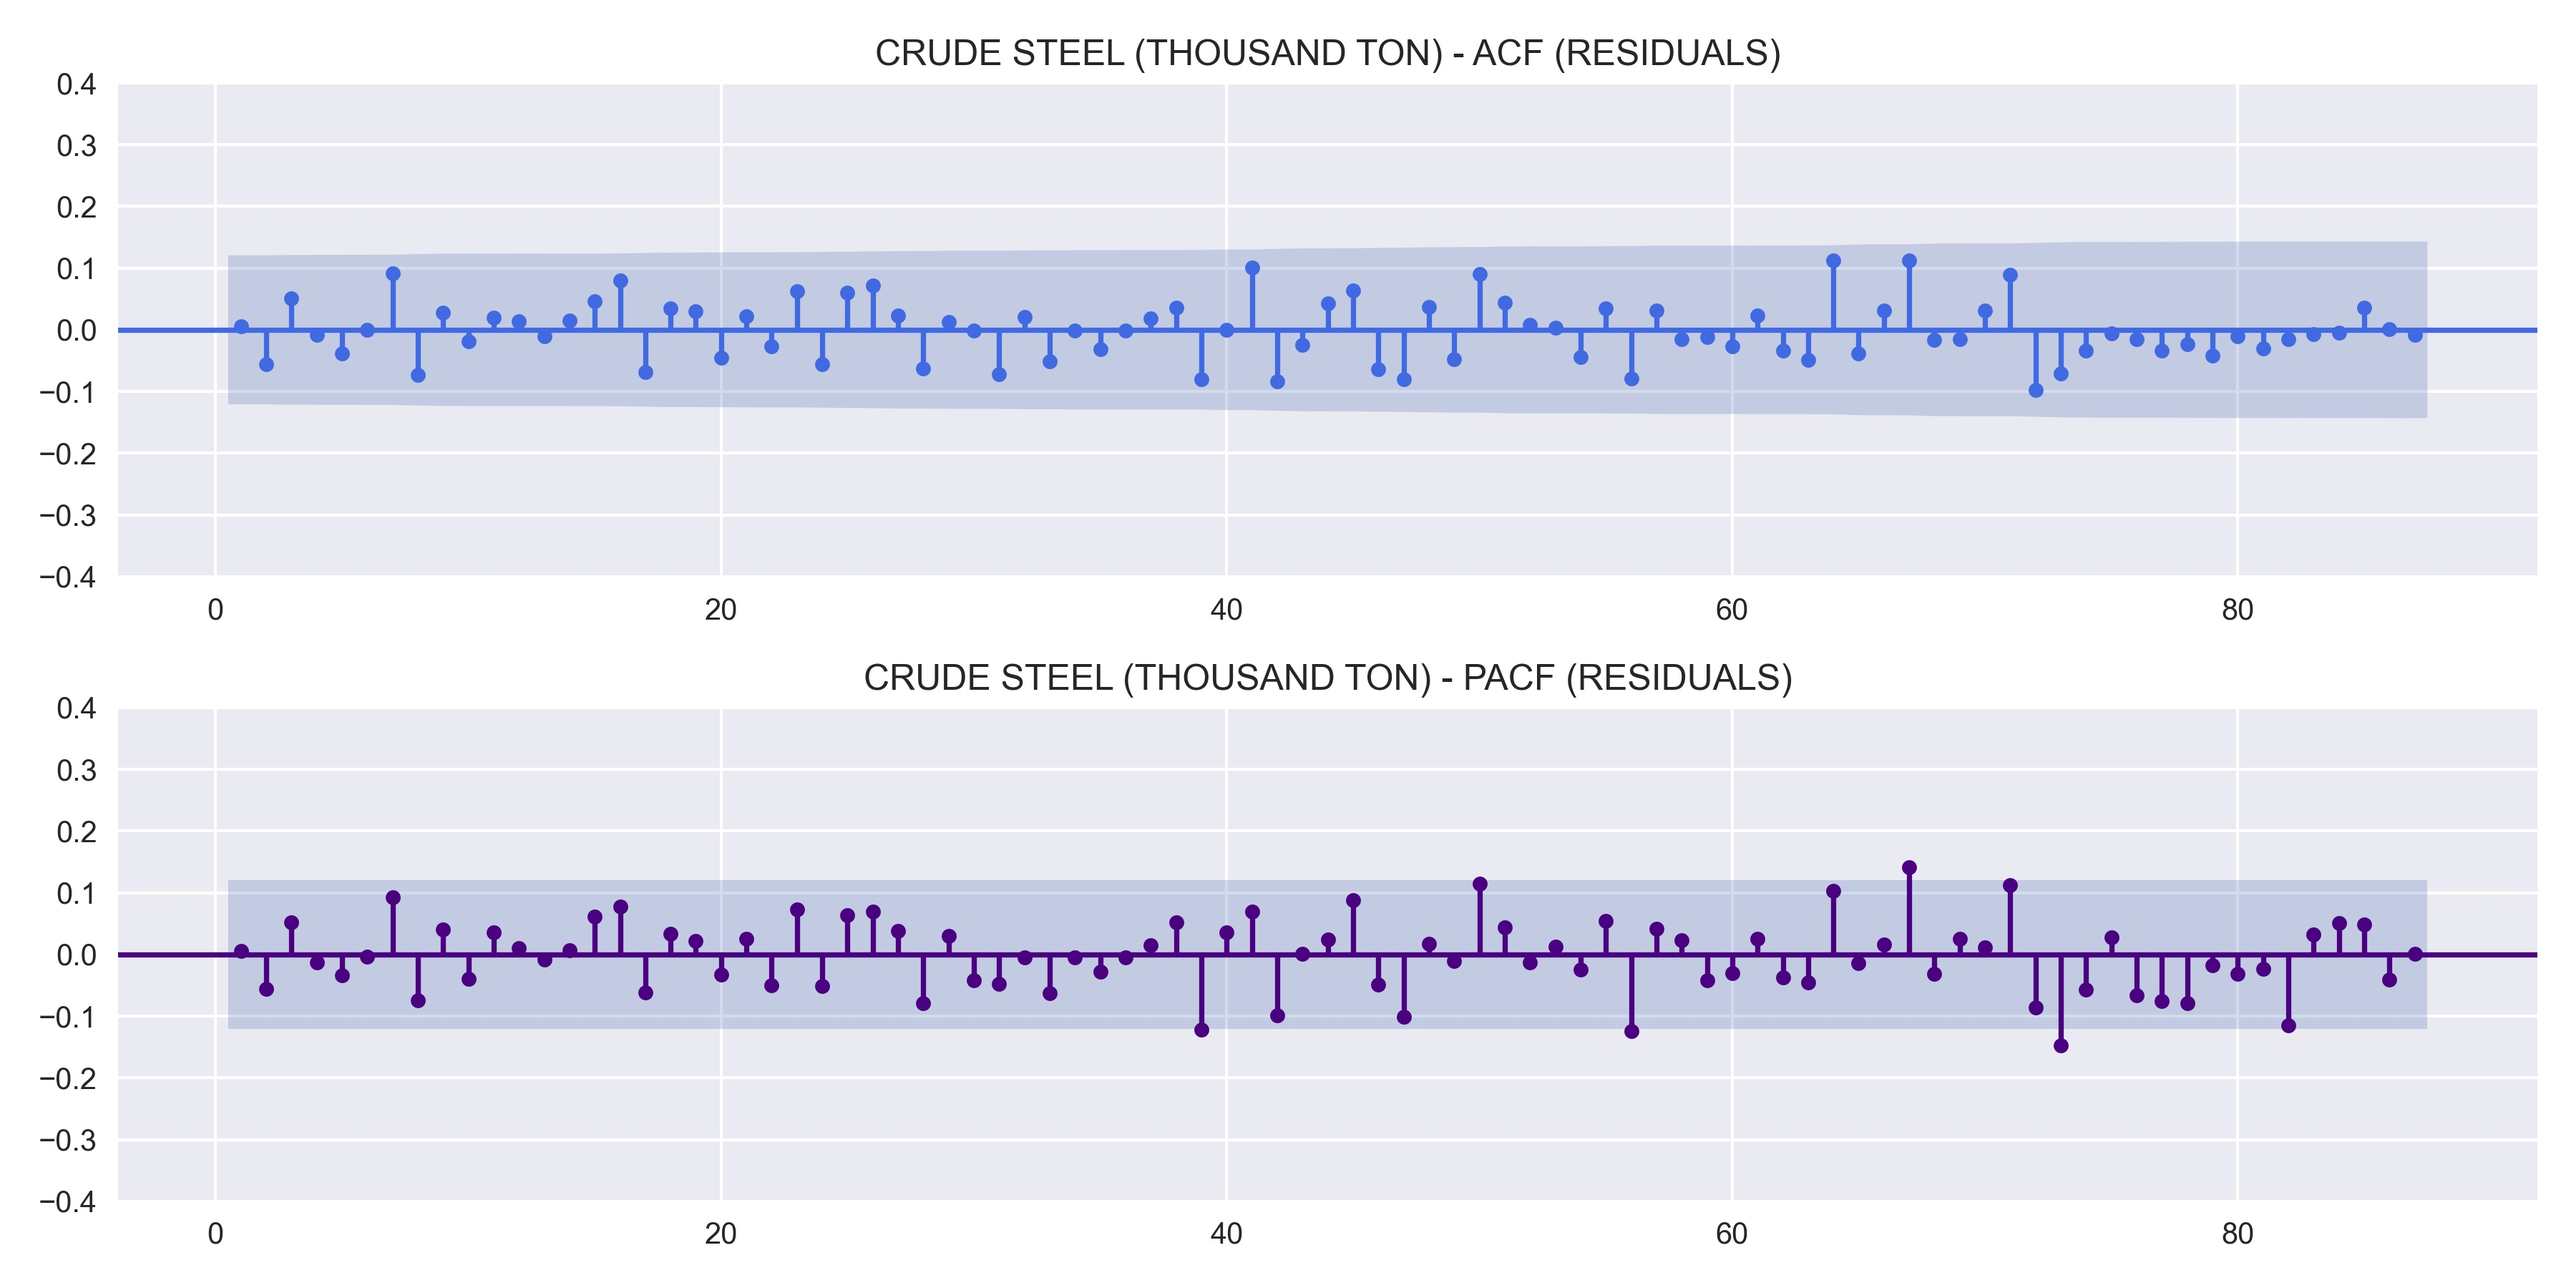
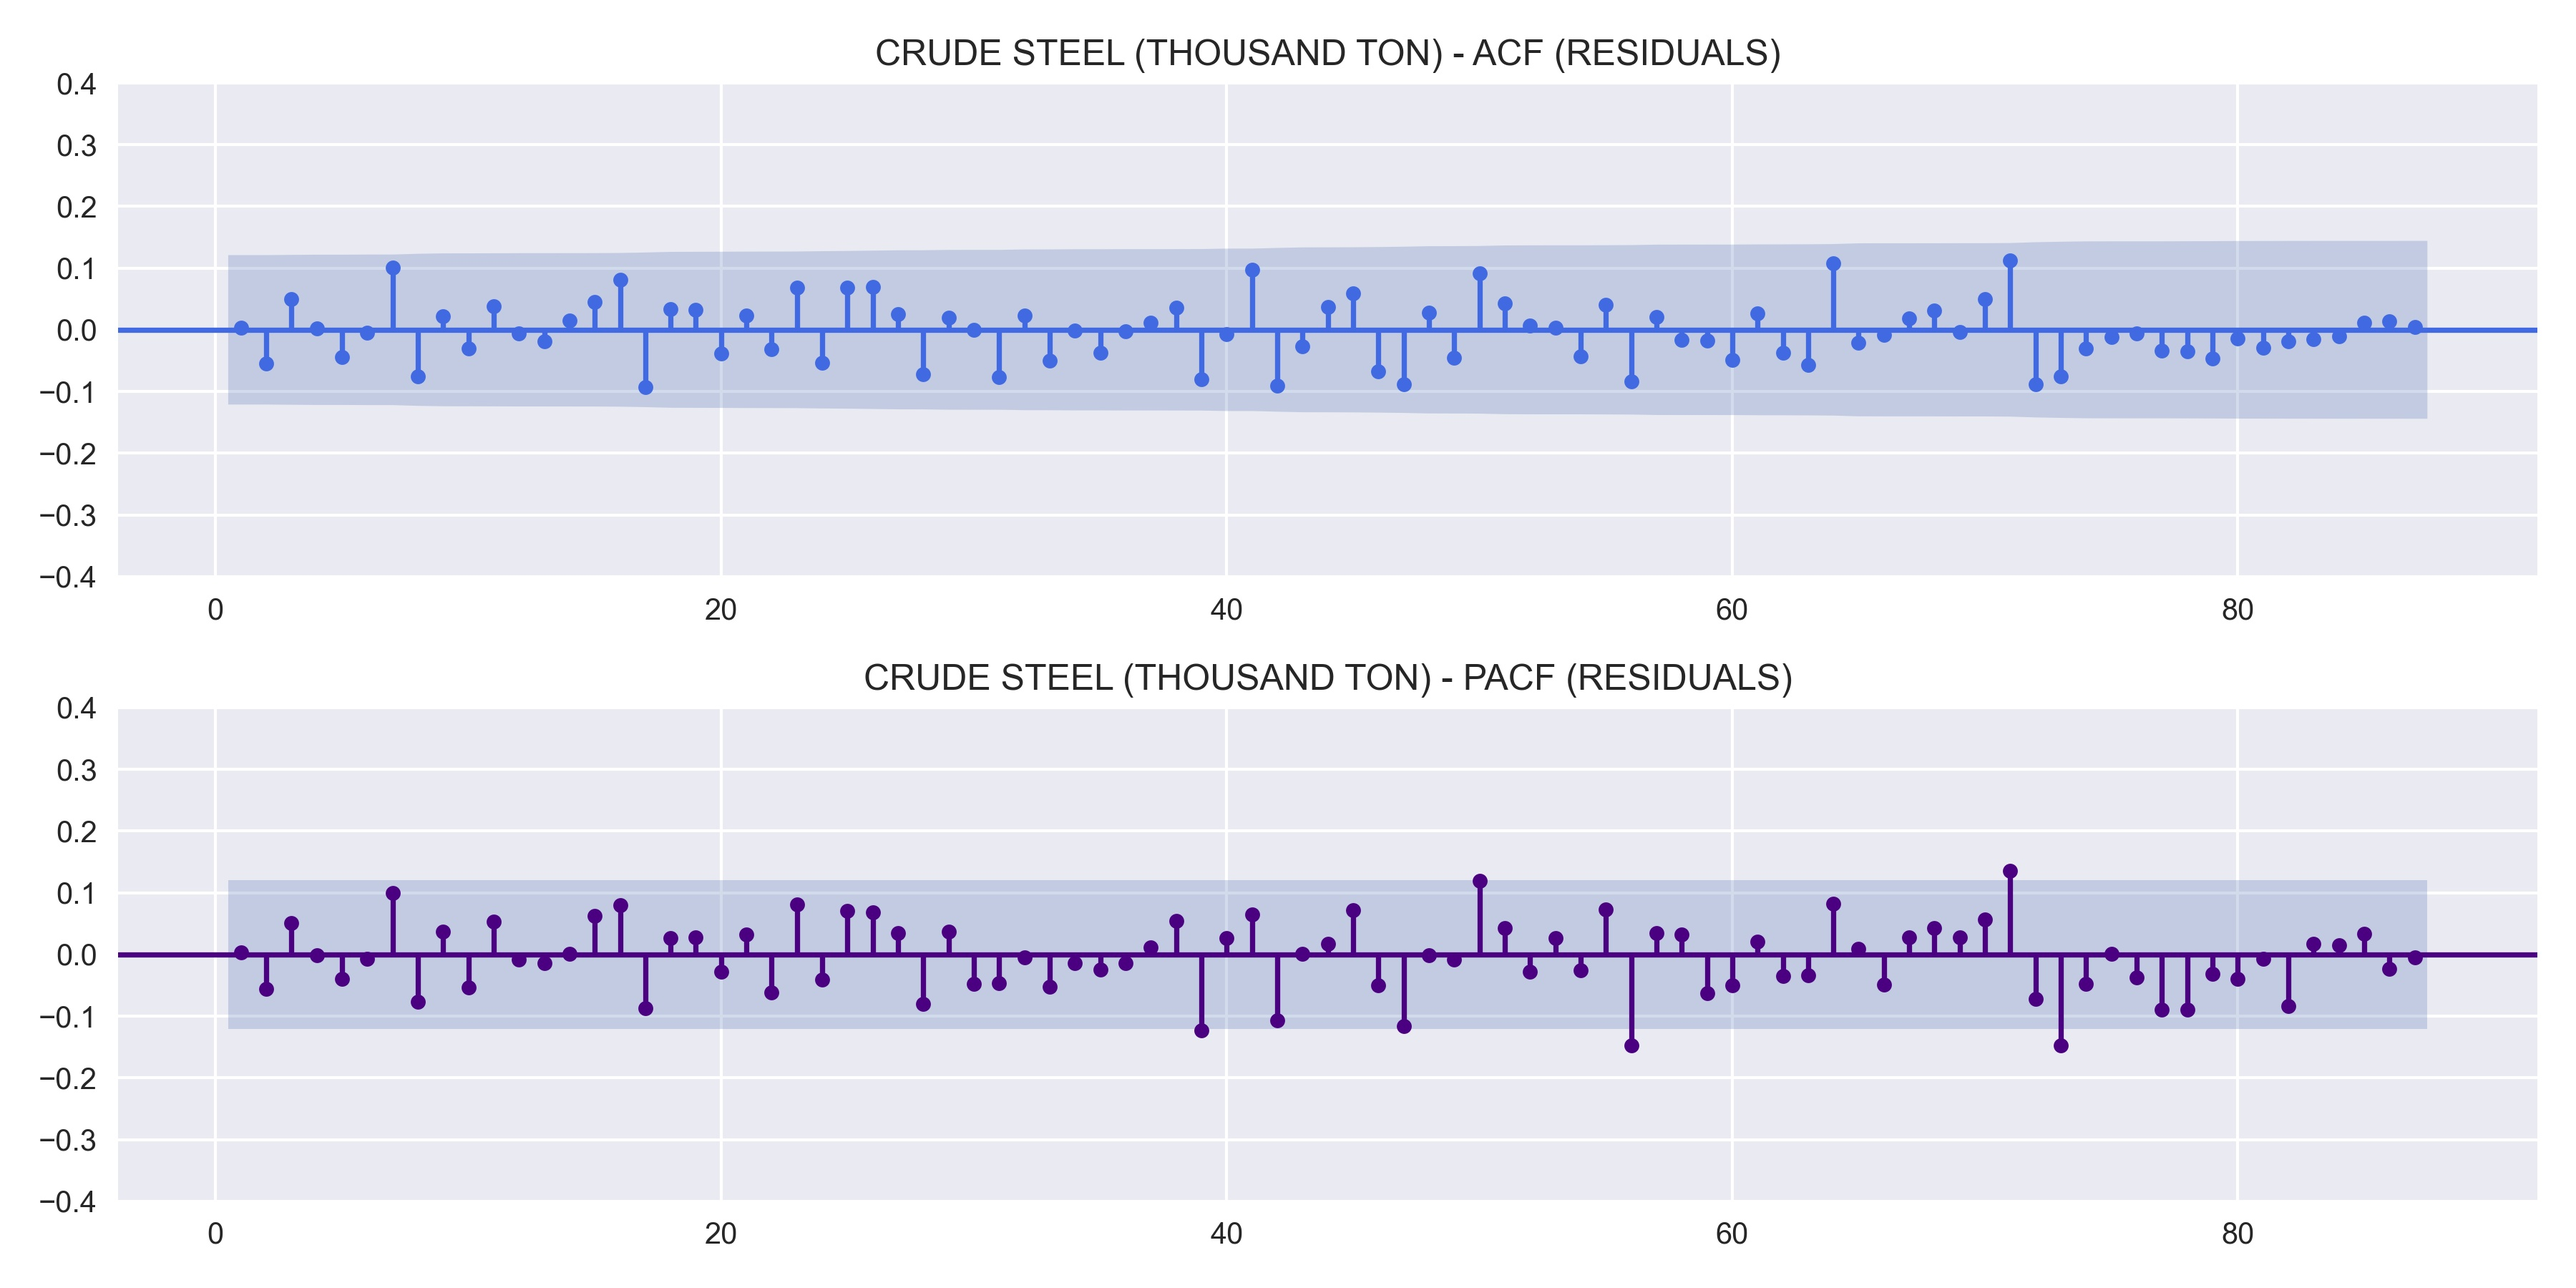
update graphics output results

diff --git a/model_execute.py b/model_execute.py
@@ -6,6 +6,7 @@ from statsmodels.graphics.tsaplots import plot_acf, plot_pacf
 from sklearn.metrics import r2_score
 from numpy import arange
 from data_input import data_exogs_fore, date_predict_init, date_predict_end
+from data_input import data_endog as data_original
 from config import fore_period
 
 
@@ -24,7 +25,7 @@ class Model_execute:
     - color3 (color setting)
     - color4 (color setting)
     - color5 (color setting)
-     
+    
     Syntax: Model_execute(data, variable, style_graph, 
                             color1, color2, color3, color4, color5)
     """
@@ -75,6 +76,7 @@ class Model_execute:
                         trend="c")
         
         self.model_fit = self.model.fit(disp=False)
+        self.resid = DataFrame(self.model_fit.resid, columns=[f"{self.variable}"]).iloc[1:,:]
         model_result = self.model_fit.summary()
         
         with open('4_results/9_model_summary.txt', 'w') as desc_stat:
@@ -90,7 +92,7 @@ class Model_execute:
         
         fig, ax = plt.subplots(2, 1, sharex=False, figsize=( 12 , 6), dpi=300)
         
-        resid = DataFrame(self.model_fit.resid, columns=[f"{self.variable}"])
+        resid = self.resid
         
         acf = plot_acf(resid.values.squeeze(),
                             lags = len(resid) / 3,
@@ -130,7 +132,7 @@ class Model_execute:
         plt.rcParams.update({'font.size': 12})
         plt.style.use(self.style_graph)
         
-        resid = DataFrame(self.model_fit.resid, columns=[f"{self.variable}"])
+        resid = self.resid
         
         resid_plot_fd = resid.hist(color=self.color2,
                                    legend=False,
@@ -151,7 +153,7 @@ class Model_execute:
         Residuals time serie plot.
         """
         
-        resid = DataFrame(self.model_fit.resid, columns=[f"{self.variable}"])
+        resid = self.resid
         
         fig, ax = plt.subplots(1, 1, sharex=False, figsize=( 12 , 6), dpi=300)
         
@@ -190,15 +192,14 @@ class Model_execute:
                                                        figsize=(12, 6))
         
         # plot fitted
-        fitted = self.data_endog.iloc[ : , 1 ].plot(xlabel="",
-                                                    ylabel="",
-                                                    color=self.color2)
+        fitted = self.data_endog.iloc[ : , 1 ]
+        fitted = fitted.plot(xlabel="", ylabel="", color=self.color2)
         
         # *** r-squared ***
         r2_fit = init_fitted - len(self.data_endog)
         r2 = r2_score(self.data_endog.iloc[ r2_fit : -1 , 0 ],
                       self.data_endog.iloc[ r2_fit : -1 , 1 ])
-
+        
         r2 = r2 * 100
         
         # *** forecast ***
@@ -240,7 +241,7 @@ class Model_execute:
                                    f"ci_95_lower", 
                                    f"ci_95_upper"]
         
-        # *** save data ***
+        # *** save data ***
         self.data_endog.to_csv("3_working/3_observed_fitted_predicted.csv", sep=",", 
                                index_label="index_date")
         

diff --git a/main.py b/main.py
@@ -1,11 +1,12 @@
 import config
 import warnings
-from pandas import read_csv, to_datetime
+from pandas import read_csv, to_datetime, concat
 from descriptive_statistics import Time_serie_level
 from x13arima_seas_adjust import X13_arima_desaz
 from stationarity import Stationarity_diff
 from model_execute import Model_execute
 from data_input import variable, data_endog, data_exogs
+
 
 # suppress warnings - sorry about that =(
 warnings.filterwarnings("ignore")
@@ -54,7 +55,6 @@ x13_desaz.independent_desaz_x13()
 
 try:
     data_non_seasonal = read_csv("3_working/1_seasonal_adjustment.csv", sep=",", decimal=".")
-
     data_non_seasonal["index_date"] = to_datetime(data_non_seasonal["index_date"])
     data_non_seasonal = data_non_seasonal.sort_values("index_date")
     data_non_seasonal = data_non_seasonal.set_index("index_date")
@@ -83,6 +83,7 @@ stationarity.independent_var_stationarity()
 
 # open stationary data
 # --------------------------------------------------------------------------
+
 try:
     data_stationarity = read_csv("3_working/2_stationary.csv", sep=",", decimal=".")
 
@@ -95,13 +96,25 @@ except:
     print("The file '2_stationary.csv' was not found in the '3_working' folder.")
     print(f"\n\n{'=' * 80}\n\n")
     exit()
+
 # --------------------------------------------------------------------------
 #   }
 
 # model execute {
 # --------------------------------------------------------------------------
-model = Model_execute(data_stationarity, variable,
-		      config.style_graph, config.color1, config.color2, 
+data_non_seasonal_endog = read_csv("3_working/1_seasonal_adjustment.csv", 
+                                   sep=",", decimal=".")
+
+data_non_seasonal_endog["index_date"] = to_datetime(data_non_seasonal_endog["index_date"])
+data_non_seasonal_endog = data_non_seasonal_endog.sort_values("index_date")
+data_non_seasonal_endog = data_non_seasonal_endog.set_index("index_date")
+
+data_model = concat([data_non_seasonal_endog,
+                     data_stationarity.iloc[ : , 2 : ]], 
+                     axis=1)
+
+model = Model_execute(data_model, variable,
+                      config.style_graph, config.color1, config.color2, 
                       config.color3, config.color4, config.color5)
 
 model.model_execute(config.p, config.d, config.q, 
